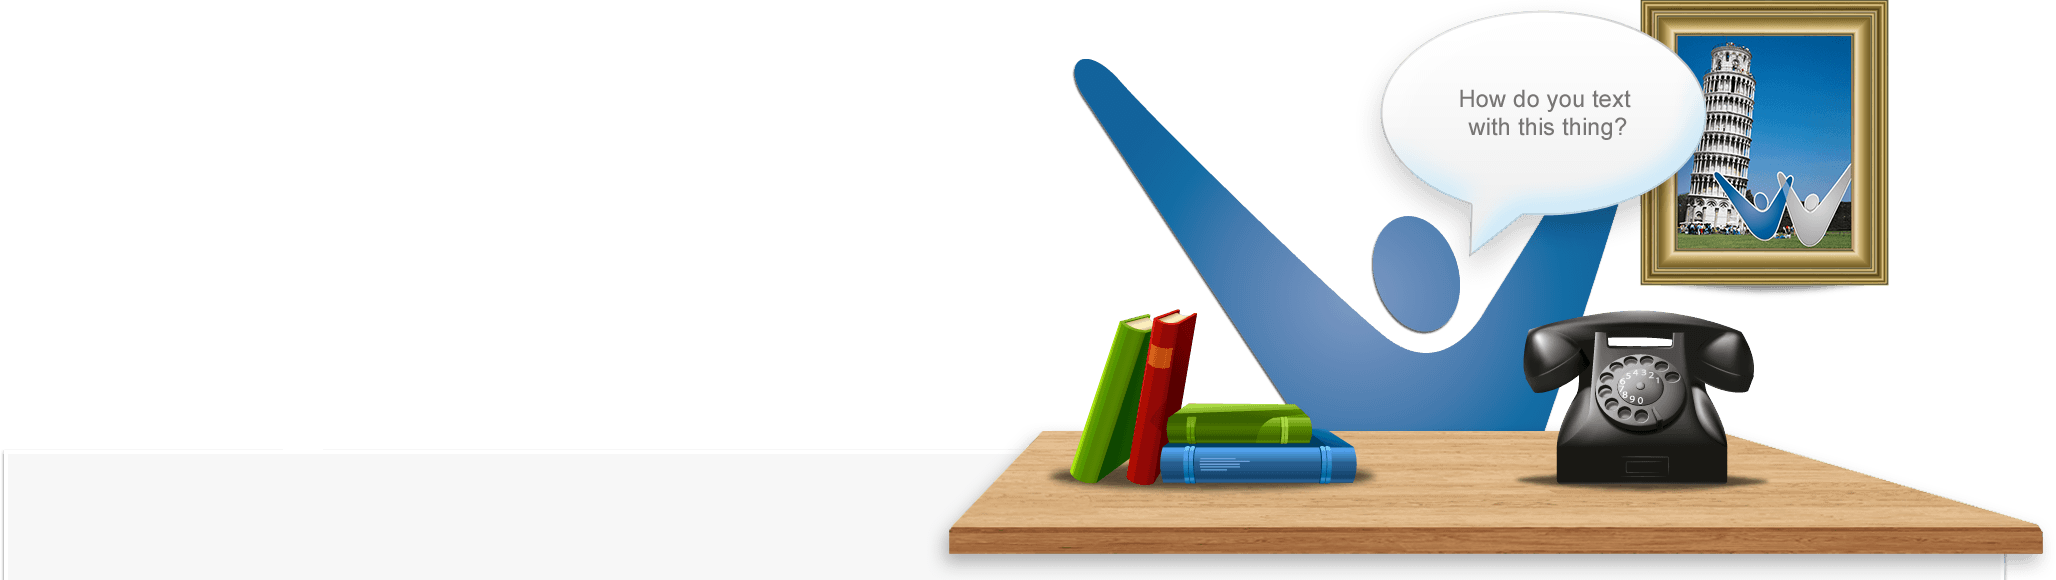
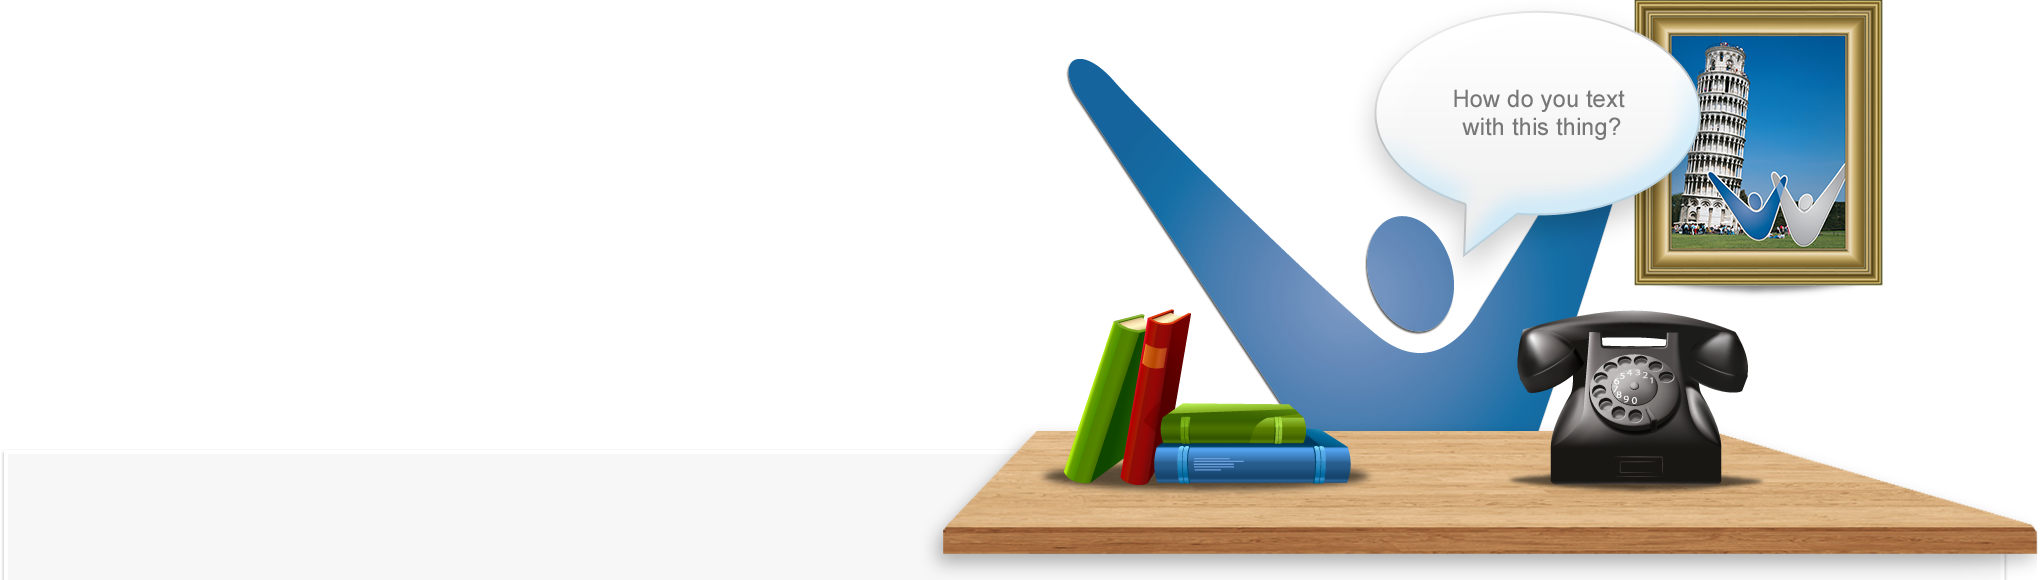
Misc fixes

diff --git a/web/css/less/main.less b/web/css/less/main.less
@@ -4347,11 +4347,11 @@ footer, #footer { height:220px;border-top:1px solid rgb(195,213,224);
 .contact-us .wrapper .banner {
     display:block;
     position:absolute;
-    width:1028px;
+    width:1020px;
     height:290px;
     background:url(/uploads/pages/contact-us/banner.png) no-repeat;
-    background-size:1028px 290px;
-    right:-28px;
+    background-size:1020px 290px;
+    right:-20px;
     top:-290px;
     z-index:1;
 }
